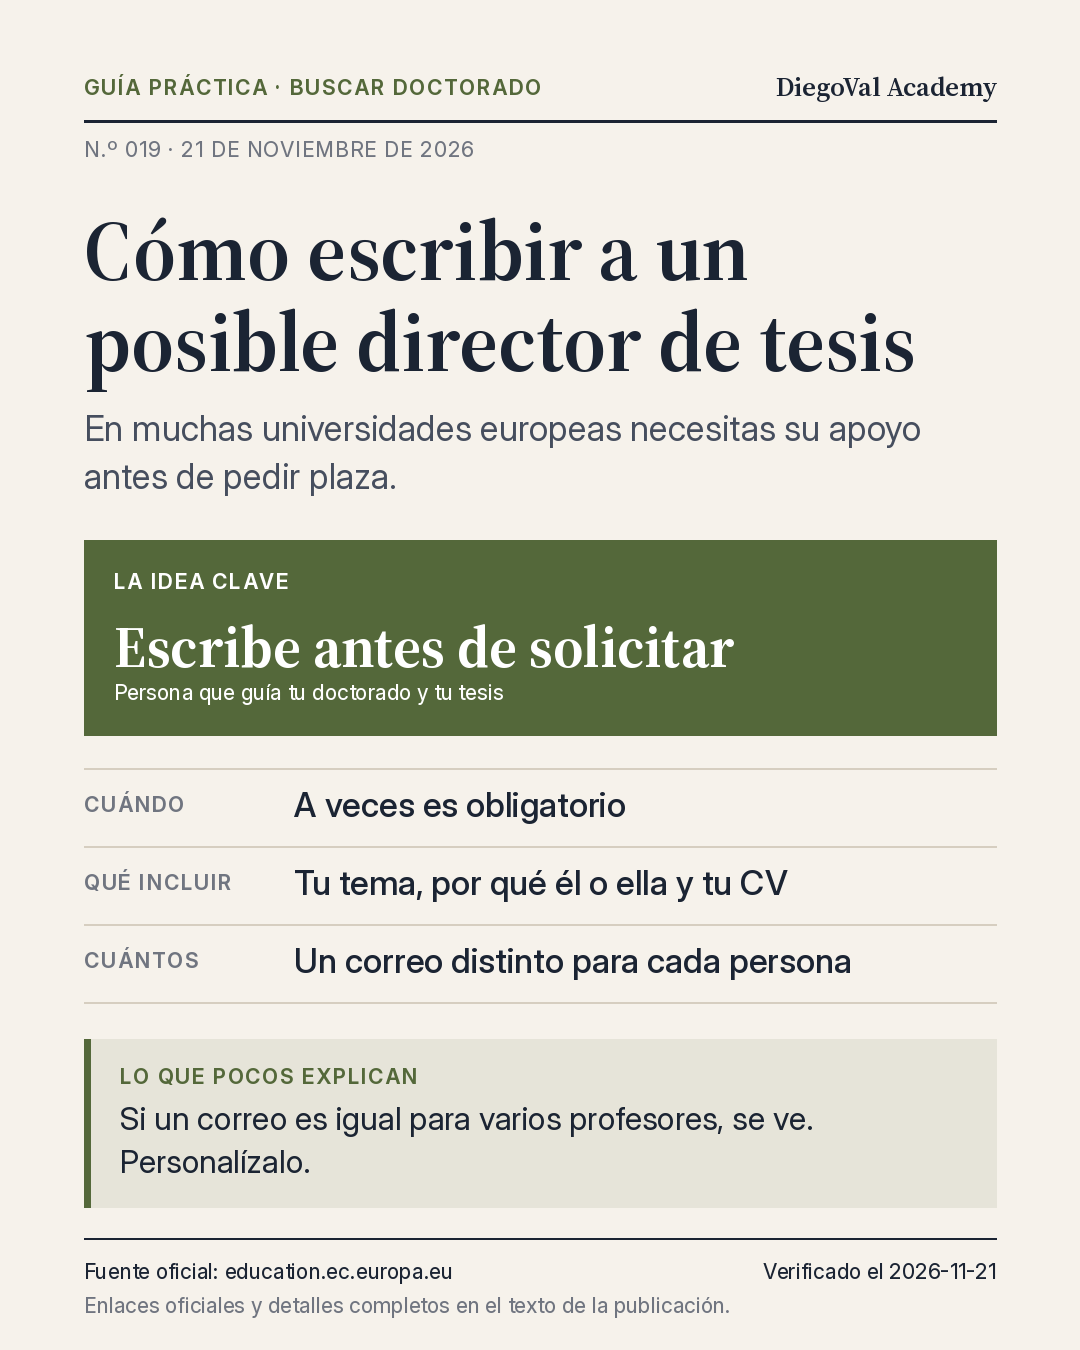
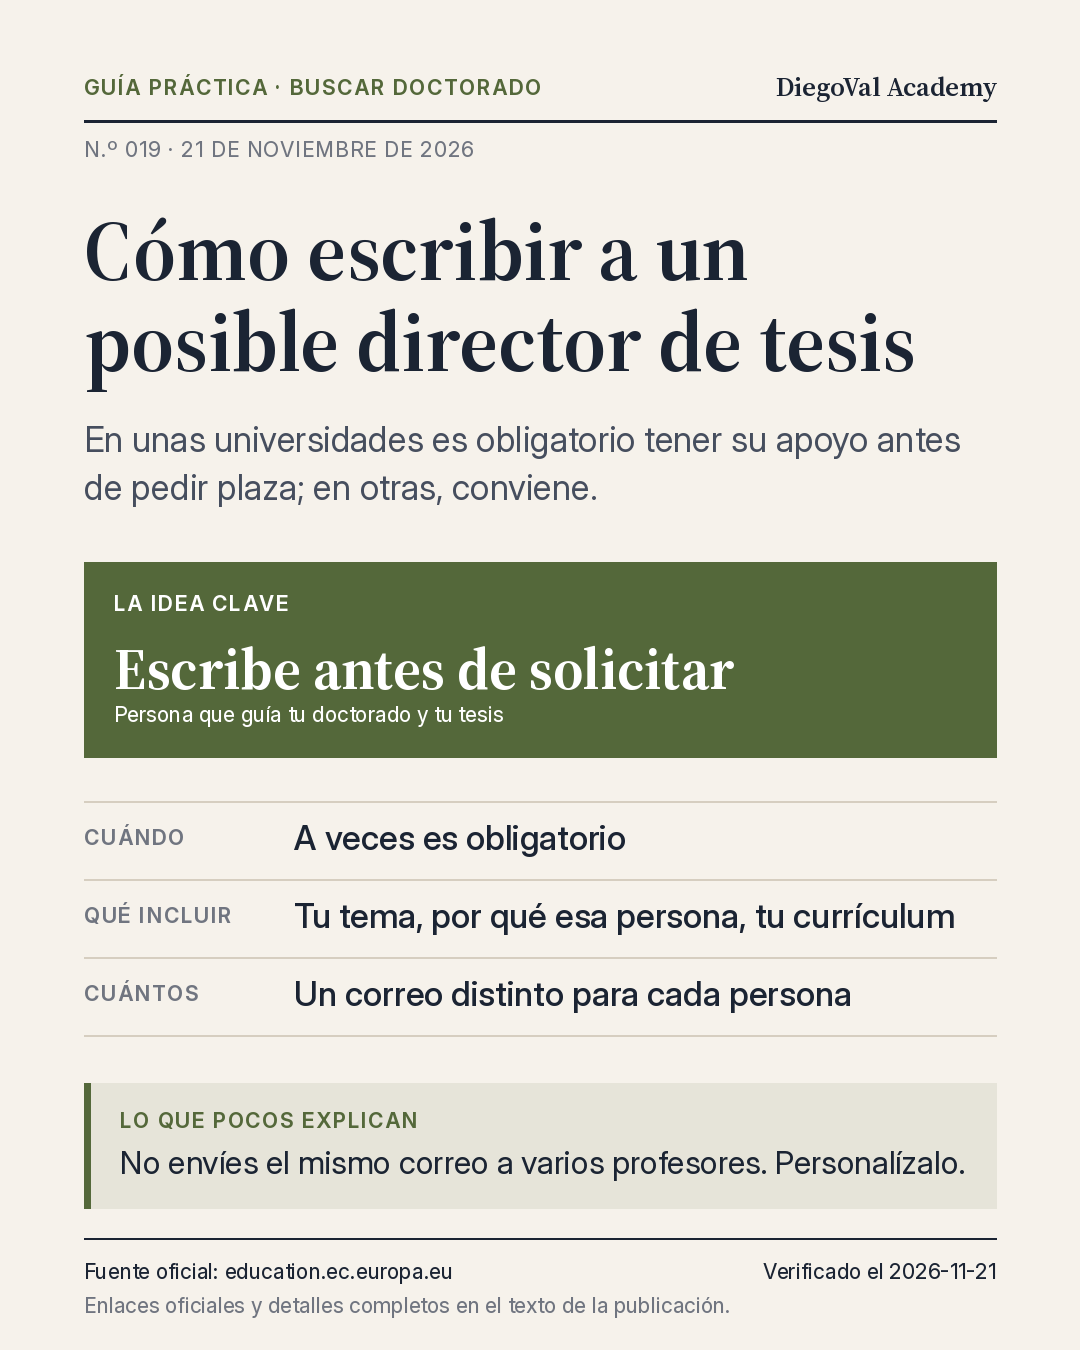
2026-11-21_sabado_contactar-director-tesis: preparada
Claude-Session: https://claude.ai/code/session_01HRCw37XA5ZPjfYCoDunqnc

Changed region(s): [[0.0611, 0.3111, 0.9472, 0.7467], [0.0917, 0.7778, 0.8861, 0.8711], [0.0611, 0.7778, 0.0917, 0.8089]]

diff --git a/posts/2026-11-21_sabado_contactar-director-tesis/sources.md b/posts/2026-11-21_sabado_contactar-director-tesis/sources.md
@@ -4,8 +4,8 @@ Categoría: buscar_doctorado (último sábado: entender_requisitos, 2026-11-14).
 | URL | Campo | Cita (WebFetch) |
 |---|---|---|
 | https://education.ec.europa.eu/news/how-to-apply-for-doctoral-studies-in-europe | Regla general | "Finding a supervisor before applying could be either compulsory or advisable"; "it is usually the applicant's responsibility"; "In Europe, every university sets its own application criteria for doctoral studies." (publicado 22-12-2021, actualizado 01-08-2022) |
-| https://www.rug.nl/research/gradschool-science-and-engineering/phd-programme/admission/find-a-supervisor?lang=en | Ejemplo Groningen | "The GSSE does not accept 'open' applications" sin apoyo explícito de un supervisor; asunto claro; describir investigación y por qué el supervisor; cómo se financiará; CV; "our supervisors receive many emails" |
-| https://bmh.manchester.ac.uk/study/research/supervisors | Mánchester | "Sending the same speculative email to several supervisors is a big no-no"; asunto con el proyecto; presentación breve; por qué encaja; "If you apply without speaking to your supervisor it's highly likely your application will be unsuccessful." |
+| https://www.rug.nl/research/gradschool-science-and-engineering/phd-programme/admission/find-a-supervisor?lang=en | Ejemplo Groningen (escuela GSSE de ciencias e ingeniería) | "The GSSE does not accept 'open' applications" sin apoyo explícito de un supervisor; asunto claro; describir investigación y por qué el supervisor; cómo se financiará; CV; "our supervisors receive many emails" |
+| https://bmh.manchester.ac.uk/study/research/supervisors | Mánchester (facultad BMH) | "Sending the same speculative email to several supervisors is a big no-no"; asunto con el proyecto; presentación breve; por qué encaja; "If you apply without speaking to your supervisor it's highly likely your application will be unsuccessful." |
 | https://www.bgsmcs.fu-berlin.de/FAQ/prospective_students/supervisors_contact.html | Contraejemplo FU Berlín | "You do not need to contact the supervisors before submitting your application." |
 
 Aviso: «lee dos trabajos recientes» = recomendación editorial, apoyada por la guía UE (revisar publicaciones y proyectos del supervisor). No se afirma nada sobre plazos ni becas concretas.

diff --git a/posts/2026-11-21_sabado_contactar-director-tesis/validation.md b/posts/2026-11-21_sabado_contactar-director-tesis/validation.md
@@ -1,0 +1,28 @@
+# Validación — 2026-11-21_sabado_contactar-director-tesis
+
+Ejecutado: 2026-11-21T07:08:51+01:00
+Decisión: **APROBADA para publicar**
+
+| Estado | Comprobación | Detalle |
+|---|---|---|
+| PASS | Archivos obligatorios | imagen: post.json, post.png, caption.md, sources.md, metadata.json |
+| PASS | Metadatos | campos obligatorios presentes |
+| PASS | Imagen | 1080x1350 PNG, 1 archivo (+5 diapositivas de carrusel, ignoradas) |
+| PASS | Canal Buffer | DiegoVal Academy (6ae0bdf22f1f5ed648eb92f9) |
+| PASS | Verificación del día | 2026-11-21 |
+| PASS | Longitud del texto | 1265/1300 caracteres |
+| PASS | Fecha visible en el texto | Verificado el: 2026-11-21 |
+| PASS | Marcadores pendientes | ninguno |
+| PASS | Enlaces documentados en sources.md | 2 enlaces |
+| PASS | Enlace principal en el texto | https://education.ec.europa.eu/news/how-to-apply-for-doctoral-studies-in-europe |
+| PASS | Lo que pocos explican | presente en imagen y texto |
+| PASS | Sin URLs en la imagen | sólo dominio de la fuente |
+| PASS | Lenguaje sencillo: siglas (texto) | todas explicadas o ninguna |
+| PASS | Lenguaje sencillo: palabras difíciles (texto) | sin burocracia ni calcos detectados |
+| PASS | Lenguaje sencillo: siglas (imagen) | todas explicadas o ninguna |
+| PASS | Lenguaje sencillo: palabras difíciles (imagen) | sin burocracia ni calcos detectados |
+| PASS | Lenguaje sencillo: frases largas | todas ≤ 32 palabras |
+| PASS | Lenguaje sencillo: revisión del verificador | respuesta 'sí' de verificador-convocatorias (subagente Sonnet), 2026-11-21; respuesta «sí» en la 2.ª revisión; después solo se ajustaron 3 frases por fidelidad a las fuentes, sin añadir términos nuevos |
+| PASS | Duplicados | sin repeticiones en 32 filas de todas las plataformas (URL canónica, topic_key y vídeo; mismo día en otra red permitido) |
+| PASS | Enlace accesible | 200 https://education.ec.europa.eu/news/how-to-apply-for-doctoral-studies-in-europe |
+| PASS | Enlace accesible | 200 https://www.rug.nl/research/gradschool-science-and-engineering/phd-programme/admission/find-a-supervisor |

diff --git a/posts/2026-11-21_sabado_contactar-director-tesis/caption.md b/posts/2026-11-21_sabado_contactar-director-tesis/caption.md
@@ -1,15 +1,15 @@
-¿Quieres hacer un doctorado en Europa? Un primer paso: escribir a un posible director de tesis (la persona que te guía en el doctorado y en tu trabajo final).
+¿Quieres hacer un doctorado en Europa? Primer paso: escribir a un posible director de tesis (la persona que te guía en el doctorado).
 
 En corto:
-• Por qué: según la Unión Europea, encontrar un director antes de solicitar puede ser obligatorio o recomendable, y suele ser tu tarea. Cada universidad pone sus reglas.
-• Ejemplo: Groningen (Países Bajos) no acepta solicitudes «abiertas»: antes necesitas el apoyo de un profesor. La Universidad Libre de Berlín dice que no hace falta.
+• Por qué: según la Unión Europea, encontrar director antes de solicitar puede ser obligatorio o recomendable, y normalmente es tu tarea. Cada universidad decide.
+• Ejemplo: la escuela de ciencias de Groningen (Países Bajos) no acepta solicitudes «abiertas»: antes necesitas el apoyo de un profesor. Una escuela de doctorado de Berlín dice que no hace falta.
 • En el correo: asunto claro, qué investigación quieres hacer, por qué esa persona, cómo pagarás tu proyecto y tu currículum.
 
-Lo que pocos explican: no envíes el mismo correo a varios profesores. La Universidad de Mánchester (Reino Unido) lo llama «un gran no».
+Lo que pocos explican: no envíes el mismo correo a varios profesores. Una facultad de Mánchester (Reino Unido) lo desaconseja.
 
 Cómo empezar esta semana:
-1. Mira en la web de tu universidad si piden un director antes de solicitar.
-2. Lee dos trabajos recientes de un profesor que te interese.
+1. Mira en la web de la universidad donde quieres estudiar si piden un director antes de solicitar.
+2. Lee dos trabajos de un profesor que te interese.
 3. Escríbele un correo propio.
 
 Guía de la Unión Europea (en inglés): https://education.ec.europa.eu/news/how-to-apply-for-doctoral-studies-in-europe

diff --git a/posts/2026-11-21_sabado_contactar-director-tesis/validation_instagram.md b/posts/2026-11-21_sabado_contactar-director-tesis/validation_instagram.md
@@ -1,0 +1,24 @@
+# Validación Instagram — 2026-11-21_sabado_contactar-director-tesis
+
+Ejecutado: 2026-11-21T07:08:52+01:00
+Decisión: **APROBADA para publicar**
+
+| Estado | Comprobación | Detalle |
+|---|---|---|
+| PASS | Archivos obligatorios | 5 imágenes + caption + carousel.json |
+| PASS | Base verificada (LinkedIn) | validation.md APROBADA: mismos datos y fuentes oficiales |
+| PASS | Imágenes 1080×1350 PNG | 5 imágenes correctas |
+| PASS | Imágenes actualizadas | generadas desde el carousel.json actual |
+| PASS | Imágenes sin URL completa | sólo dominios |
+| PASS | Fecha de verificación | 2026-11-21 |
+| PASS | Caption breve | 527 caracteres (máx. 1000) |
+| PASS | Hashtags | 4 (rango 3-8) |
+| PASS | Verificado el | 2026-11-21 |
+| PASS | Lenguaje sencillo: siglas (texto) | todas explicadas o ninguna |
+| PASS | Lenguaje sencillo: palabras difíciles (texto) | sin burocracia ni calcos detectados |
+| PASS | Lenguaje sencillo: siglas (imagen) | todas explicadas o ninguna |
+| PASS | Lenguaje sencillo: palabras difíciles (imagen) | sin burocracia ni calcos detectados |
+| PASS | Lenguaje sencillo: frases largas | todas ≤ 32 palabras |
+| PASS | Lenguaje sencillo: revisión del verificador | respuesta 'sí' de verificador-convocatorias (subagente Sonnet), 2026-11-21; respuesta «sí» en la 2.ª revisión; después solo se ajustaron 3 frases por fidelidad a las fuentes, sin añadir términos nuevos |
+| PASS | Duplicados (Instagram) | sin repeticiones en ninguna plataforma (mismo día en LinkedIn permitido) |
+| PASS | Verificación de hoy | 2026-11-21 |

diff --git a/posts/2026-11-21_sabado_contactar-director-tesis/caption_instagram.md b/posts/2026-11-21_sabado_contactar-director-tesis/caption_instagram.md
@@ -2,7 +2,7 @@
 
 Es la persona que te guía en el doctorado y en tu trabajo final.
 
-✅ A veces es obligatorio tener su apoyo antes de solicitar
+✅ En algunas universidades es obligatorio su apoyo antes de solicitar
 ✅ Cuenta tu tema, por qué esa persona y adjunta tu currículum
 ✅ No envíes el mismo correo a varios profesores
 
